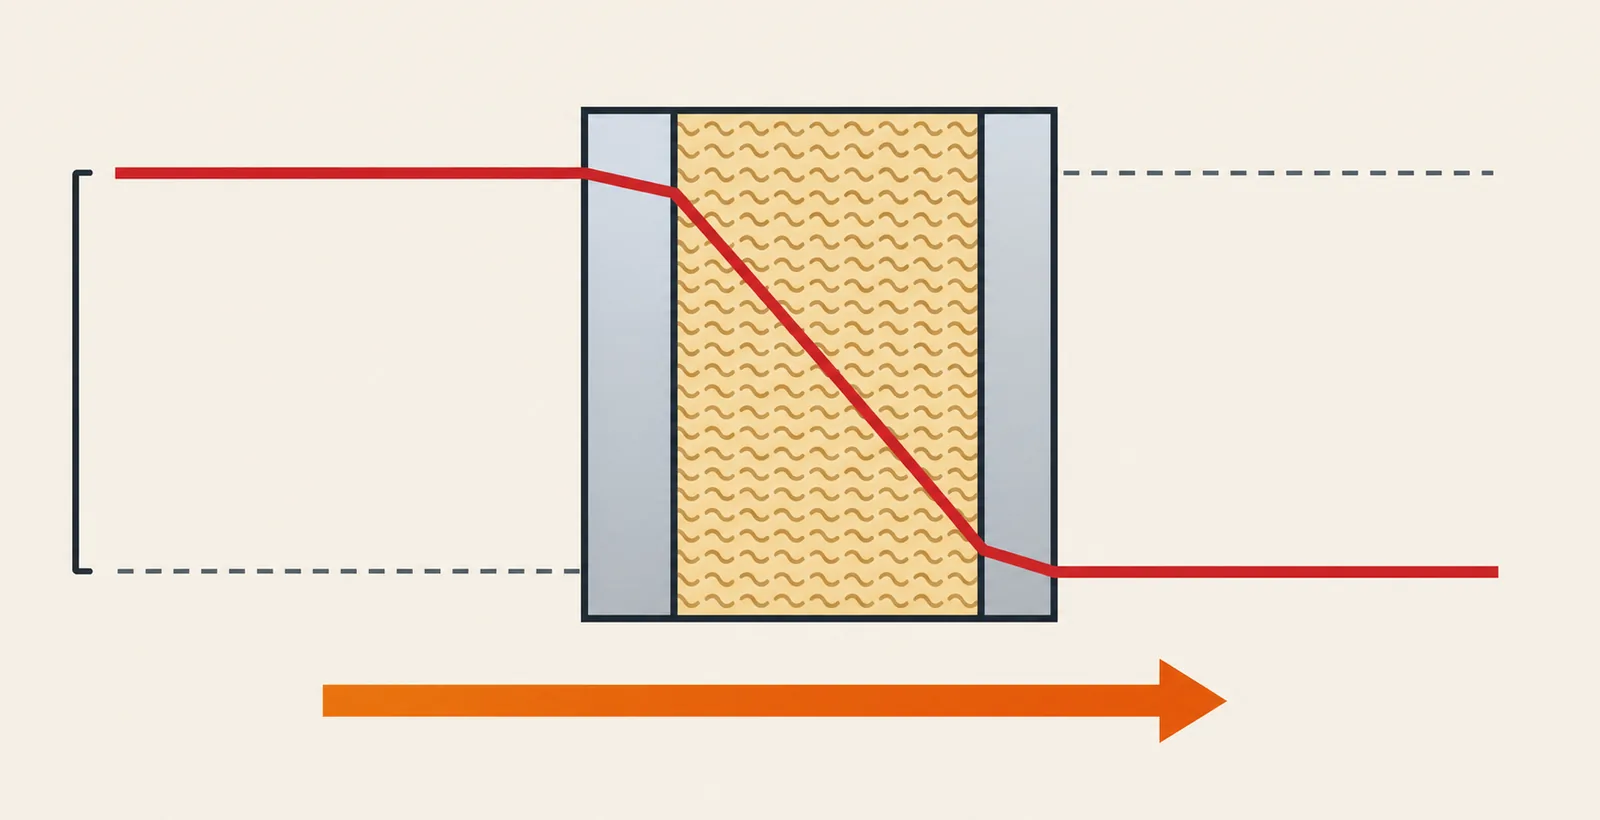
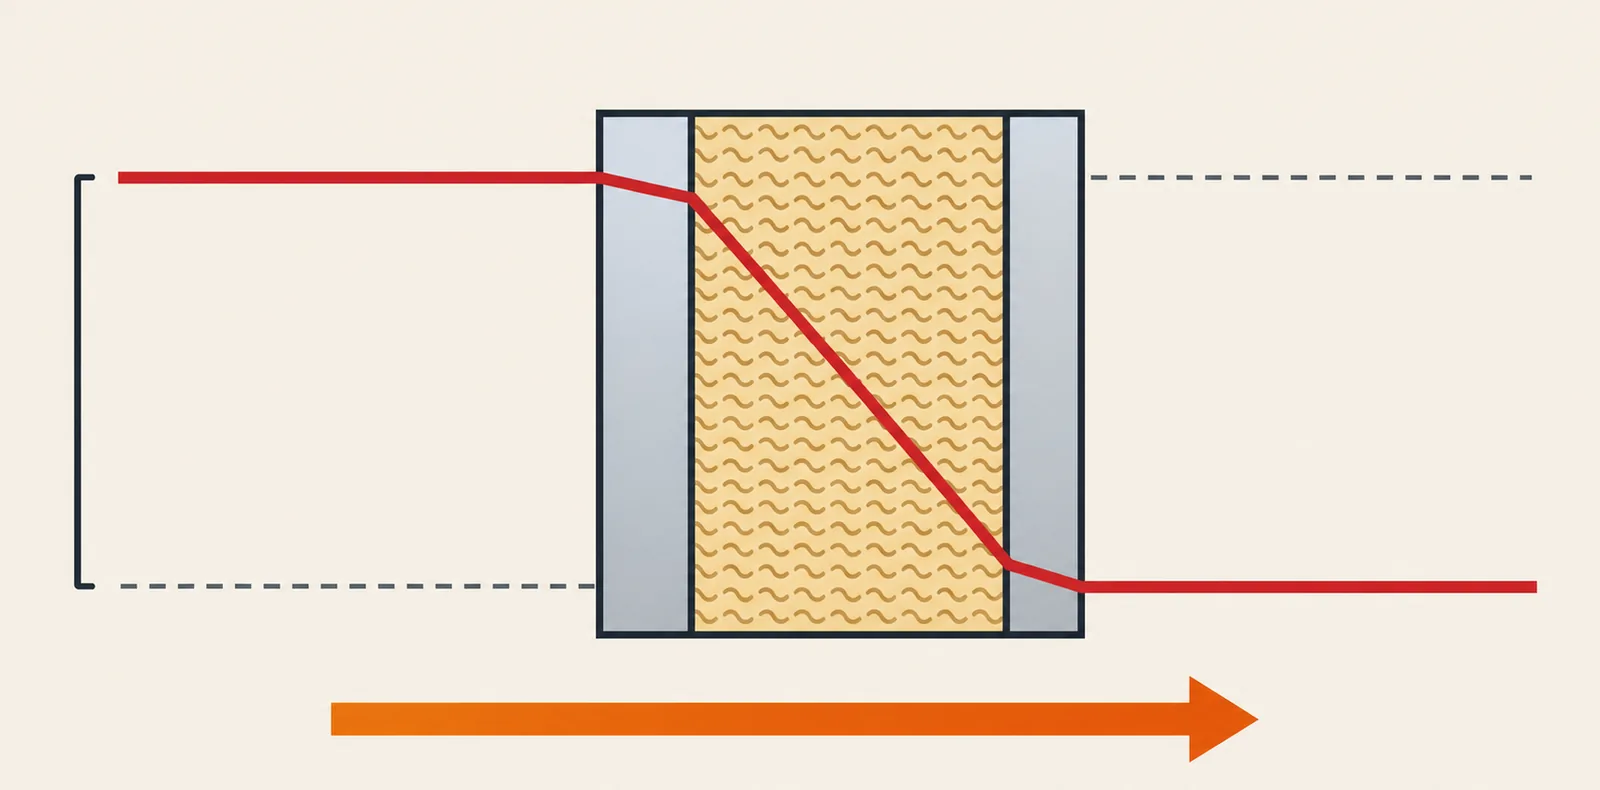
Työjono 24 osa 3: wall-temperature rajattu viewBoxiin (tyhjä paperireuna pois)
Claude-Session: https://claude.ai/code/session_018S3zFww5udbJ3ygchB38Xj

Changed region(s): [[0.0312, 0.1215, 0.9688, 0.9722], [0.0938, 0.6684, 0.1875, 0.6987]]

diff --git a/fysiikkalabra/content/en/FY3/fy3-12/lesson.md b/fysiikkalabra/content/en/FY3/fy3-12/lesson.md
@@ -69,7 +69,7 @@ P = U A \Delta T
 where $P$ is the thermal power (W), $U$ is the U-value of the building part (W/(m²·K)), $A$ is the area (m²) and $\Delta T$ is the difference between the indoor and outdoor temperature (K). The formula holds when the temperatures on both sides of the building part stay constant. In energy balance the power coming into an object and the power leaving it are equal, and the temperature stays constant.
 
 <svg data-fig="wall-temperature" viewBox="0 0 600 300" role="img" aria-label="Cross-section of a wall and the course of the temperature, schematic diagram. The wall has a thin inner board, a thick layer of insulation and a thin outer cladding. The temperature falls from 21 degrees indoors to minus 15 degrees outdoors, that is, by 36 kelvins, and most of the fall happens in the insulation. The thermal power P passes through the wall from the inside to the outside." style="max-width:100%;font-size:24px">
-  <image href="pics/fy3/fy3-12-wall-temperature.webp" x="0" y="3.8" width="615.4" height="315.4" preserveAspectRatio="none"/>
+  <image href="pics/fy3/fy3-12-wall-temperature.webp" x="0" y="3.8" width="600" height="296.2" preserveAspectRatio="none"/>
   <foreignObject x="269.5" y="85.5" width="133" height="29" overflow="visible"><div xmlns="http://www.w3.org/1999/xhtml" class="fig-tex" style="display:flex;align-items:center;justify-content:center;height:100%;font-size:24px">$\text{insulation}$</div></foreignObject>
   <foreignObject x="101" y="25.5" width="58" height="29" overflow="visible"><div xmlns="http://www.w3.org/1999/xhtml" class="fig-tex" style="display:flex;align-items:center;justify-content:center;height:100%;font-size:24px">$21\,{}^\circ\text{C}$</div></foreignObject>
   <foreignObject x="82.5" y="85.5" width="95" height="29" overflow="visible"><div xmlns="http://www.w3.org/1999/xhtml" class="fig-tex" style="display:flex;align-items:center;justify-content:center;height:100%;font-size:24px">$\text{indoors}$</div></foreignObject>

diff --git a/fysiikkalabra/content/fi-easy/FY3/fy3-12/lesson.md b/fysiikkalabra/content/fi-easy/FY3/fy3-12/lesson.md
@@ -75,7 +75,7 @@ P = U A \Delta T
 Tässä $P$ on lämpöteho (W). Suure $U$ on rakennusosan U-arvo (W/(m²·K)). Suure $A$ on pinta-ala (m²). Suure $\Delta T$ on sisä- ja ulkolämpötilan erotus (K). Kaava pätee, kun lämpötilat rakennusosan molemmilla puolilla pysyvät vakioina. Energiatasapainossa kappaleeseen tuleva ja siitä lähtevä teho ovat yhtä suuret. Silloin lämpötila pysyy vakiona.
 
 <svg data-fig="wall-temperature" viewBox="0 0 600 300" role="img" aria-label="Seinän poikkileikkaus ja lämpötilan kulku, periaatekuva. Seinässä on ohut sisälevy, paksu eristekerros ja ohut ulkoverhous. Lämpötila laskee sisällä olevasta 21 asteesta ulkona olevaan miinus 15 asteeseen. Lasku on 36 kelviniä. Suurin osa laskusta tapahtuu eristeessä. Lämpöteho P kulkee seinän läpi sisältä ulos." style="max-width:100%;font-size:24px">
-  <image href="pics/fy3/fy3-12-wall-temperature.webp" x="0" y="3.8" width="615.4" height="315.4" preserveAspectRatio="none"/>
+  <image href="pics/fy3/fy3-12-wall-temperature.webp" x="0" y="3.8" width="600" height="296.2" preserveAspectRatio="none"/>
   <foreignObject x="294.5" y="85.5" width="83" height="29" overflow="visible"><div xmlns="http://www.w3.org/1999/xhtml" class="fig-tex" style="display:flex;align-items:center;justify-content:center;height:100%;font-size:24px">$\text{eriste}$</div></foreignObject>
   <foreignObject x="101" y="25.5" width="58" height="29" overflow="visible"><div xmlns="http://www.w3.org/1999/xhtml" class="fig-tex" style="display:flex;align-items:center;justify-content:center;height:100%;font-size:24px">$21\,{}^\circ\text{C}$</div></foreignObject>
   <foreignObject x="82.5" y="85.5" width="95" height="29" overflow="visible"><div xmlns="http://www.w3.org/1999/xhtml" class="fig-tex" style="display:flex;align-items:center;justify-content:center;height:100%;font-size:24px">$\text{sisällä}$</div></foreignObject>

diff --git a/fysiikkalabra/content/fi/FY3/fy3-12/lesson.md b/fysiikkalabra/content/fi/FY3/fy3-12/lesson.md
@@ -69,7 +69,7 @@ P = U A \Delta T
 missä $P$ on lämpöteho (W), $U$ rakennusosan U-arvo (W/(m²·K)), $A$ pinta-ala (m²) ja $\Delta T$ sisä- ja ulkolämpötilan erotus (K). Kaava pätee, kun lämpötilat rakennusosan molemmilla puolilla pysyvät vakioina. Energiatasapainossa kappaleeseen tuleva ja siitä lähtevä teho ovat yhtä suuret, ja lämpötila pysyy vakiona.
 
 <svg data-fig="wall-temperature" viewBox="0 0 600 300" role="img" aria-label="Seinän poikkileikkaus ja lämpötilan kulku, periaatekuva. Seinässä on ohut sisälevy, paksu eristekerros ja ohut ulkoverhous. Lämpötila laskee sisältä 21 asteesta ulos miinus 15 asteeseen eli 36 kelviniä, ja suurin osa laskusta tapahtuu eristeessä. Lämpöteho P kulkee seinän läpi sisältä ulos." style="max-width:100%;font-size:24px">
-  <image href="pics/fy3/fy3-12-wall-temperature.webp" x="0" y="3.8" width="615.4" height="315.4" preserveAspectRatio="none"/>
+  <image href="pics/fy3/fy3-12-wall-temperature.webp" x="0" y="3.8" width="600" height="296.2" preserveAspectRatio="none"/>
   <foreignObject x="294.5" y="85.5" width="83" height="29" overflow="visible"><div xmlns="http://www.w3.org/1999/xhtml" class="fig-tex" style="display:flex;align-items:center;justify-content:center;height:100%;font-size:24px">$\text{eriste}$</div></foreignObject>
   <foreignObject x="101" y="25.5" width="58" height="29" overflow="visible"><div xmlns="http://www.w3.org/1999/xhtml" class="fig-tex" style="display:flex;align-items:center;justify-content:center;height:100%;font-size:24px">$21\,{}^\circ\text{C}$</div></foreignObject>
   <foreignObject x="82.5" y="85.5" width="95" height="29" overflow="visible"><div xmlns="http://www.w3.org/1999/xhtml" class="fig-tex" style="display:flex;align-items:center;justify-content:center;height:100%;font-size:24px">$\text{sisällä}$</div></foreignObject>
